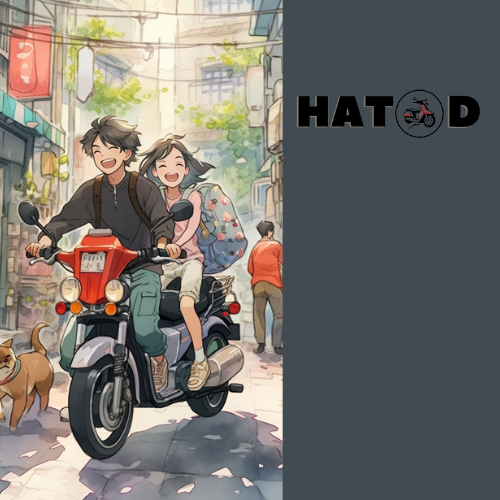
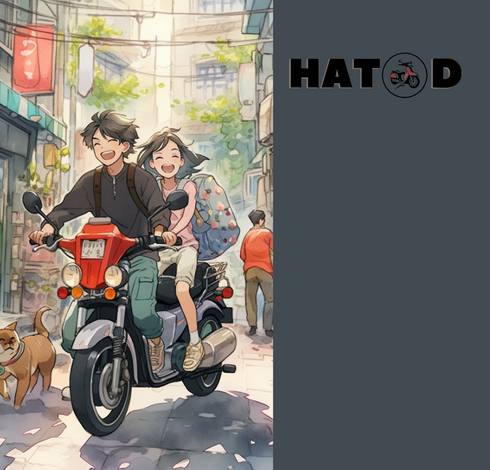
Fixed GUI on LoginController and UsersController

Changed region(s): [[0.0, 0.0, 0.9796, 1.0], [0.2449, 0.0596, 0.2755, 0.0894]]

diff --git a/view/AllView.java b/view/AllView.java
@@ -16,13 +16,13 @@ public class AllView{
 		label.setBounds(x,y,width,height);
 		label.setText(text);
 		label.setFont(new Font("Times New Roman", Font.BOLD, fontSize));
-        label.setForeground(new Color(0xC9E7EB));
+        label.setForeground(new Color(0x000000));
 		panel.add(label);
 	}
 
 	public static void addImage(JFrame frame, JLabel label, String nameImage){
 		ImageIcon image = new ImageIcon(nameImage);
-		label.setBounds(0,0,500,500);
+		label.setBounds(0,0,490,470);
 		label.setIcon(image);
 		frame.add(label);
 	}
@@ -30,12 +30,14 @@ public class AllView{
 	public static void addTextField(JTextField textField, JPanel panel, int x, int y, int width, int height, int fontSize){
 		textField.setBounds(x,y,width,height);
 		textField.setFont(new Font("Times New Roman", Font.PLAIN, fontSize));
+		textField.setBackground(new Color(0x797E83));
 		panel.add(textField);
 	}
 
 	public static void addPassField(JPasswordField passField, JPanel panel, int x, int y, int width, int height, int fontSize){
 		passField.setBounds(x,y,width,height);
 		passField.setFont(new Font("Times New Roman", Font.PLAIN, fontSize));
+		passField.setBackground(new Color(0x797E83));
 		panel.add(passField);
 	}
 
@@ -43,13 +45,15 @@ public class AllView{
 		button.setBounds(x,y,width,height);
 		button.setText(text);
 		button.setFont(new Font("Times New Roman", Font.PLAIN, fontSize));
+		button.setBackground(new Color(0x797E83));
+		button.setForeground(new Color(0x000000));
 		panel.add(button);
 	}
 	public static void addButton(JButton button, String text, int x, int y, int width, int height, int fontSize){
 		button.setBounds(x,y,width,height);
 		button.setText(text);
 		button.setFont(new Font("Times New Roman", Font.PLAIN, fontSize));
-		
+		button.setForeground(new Color(0x000000));
 	}
 
 	public static void clearFrame(JFrame frame){

diff --git a/controller/UsersController.java b/controller/UsersController.java
@@ -6,7 +6,7 @@ import javax.swing.*;
 import java.awt.*;
 import java.awt.event.*;
 
-public class UsersController{
+public class UsersController implements ActionListener{
 
     JPanel panel;
     JLabel image;
@@ -29,26 +29,31 @@ public class UsersController{
 	AllView.addImage(mainFrame, image, "UserFrame1.png");
 
     JLabel currentDestination = new JLabel();
-	AllView.addLabel(currentDestination, panel, "PICK UP PLACE:", 138,36,206,11,10); 
+	AllView.addLabel(currentDestination, panel, "PICK UP PLACE:", 135,25,206,11,10); 
 
     fromDestination = new JTextField();
-    AllView.addTextField(fromDestination, panel, 138,36,206,20,11);
+    AllView.addTextField(fromDestination, panel, 133,35,220,20,11);
 
     JLabel assignedDestination = new JLabel();
-    AllView.addLabel(assignedDestination, panel, "DESTINATION:", 138,76,219,11,10);
+    AllView.addLabel(assignedDestination, panel, "DESTINATION:", 135,63,219,11,10);
 
     toDestination = new JTextField();
-    AllView.addTextField(toDestination, panel, 138,76,219,20,11);
+    AllView.addTextField(toDestination, panel, 133, 73,220,20,11);
 
     JLabel hatodCredits = new JLabel();
-    AllView.addLabel(hatodCredits, panel, "HATOD CREDITS: ", 19,386,70,13, 13);
+    AllView.addLabel(hatodCredits, panel, "HATOD CREDITS: ", 22,364,200,13, 11);
 
     bookRide = new JButton();
-    AllView.addButton(bookRide, panel, "BOOK A RIDE", 8, 452, 179, 25, 12);
-
+    AllView.addButton(bookRide, panel, "BOOK A RIDE", 11, 425, 179, 25, 12);
 
     }
 
+
+    public void actionPerformed(ActionEvent event){
+        if(event.getSource() == bookRide){
+            
+        }
+    }
 
 
 }
